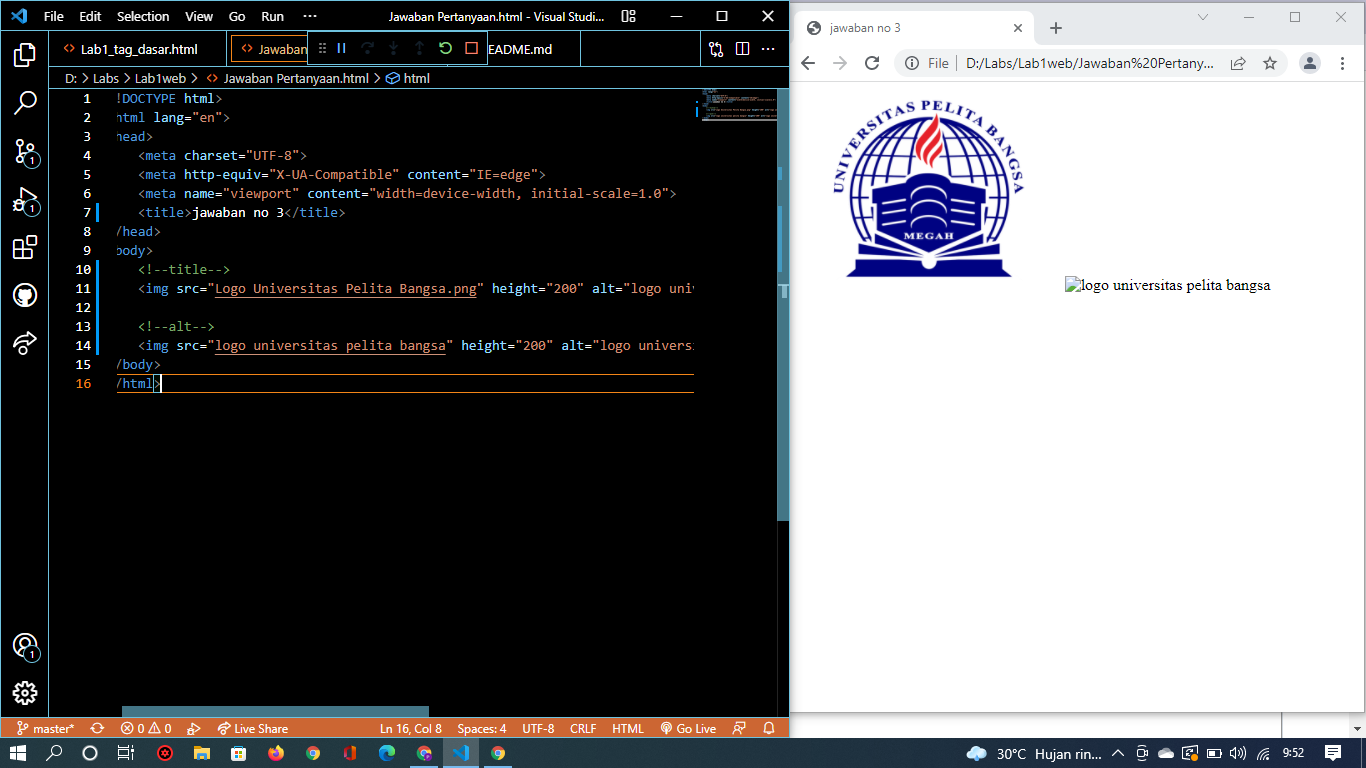
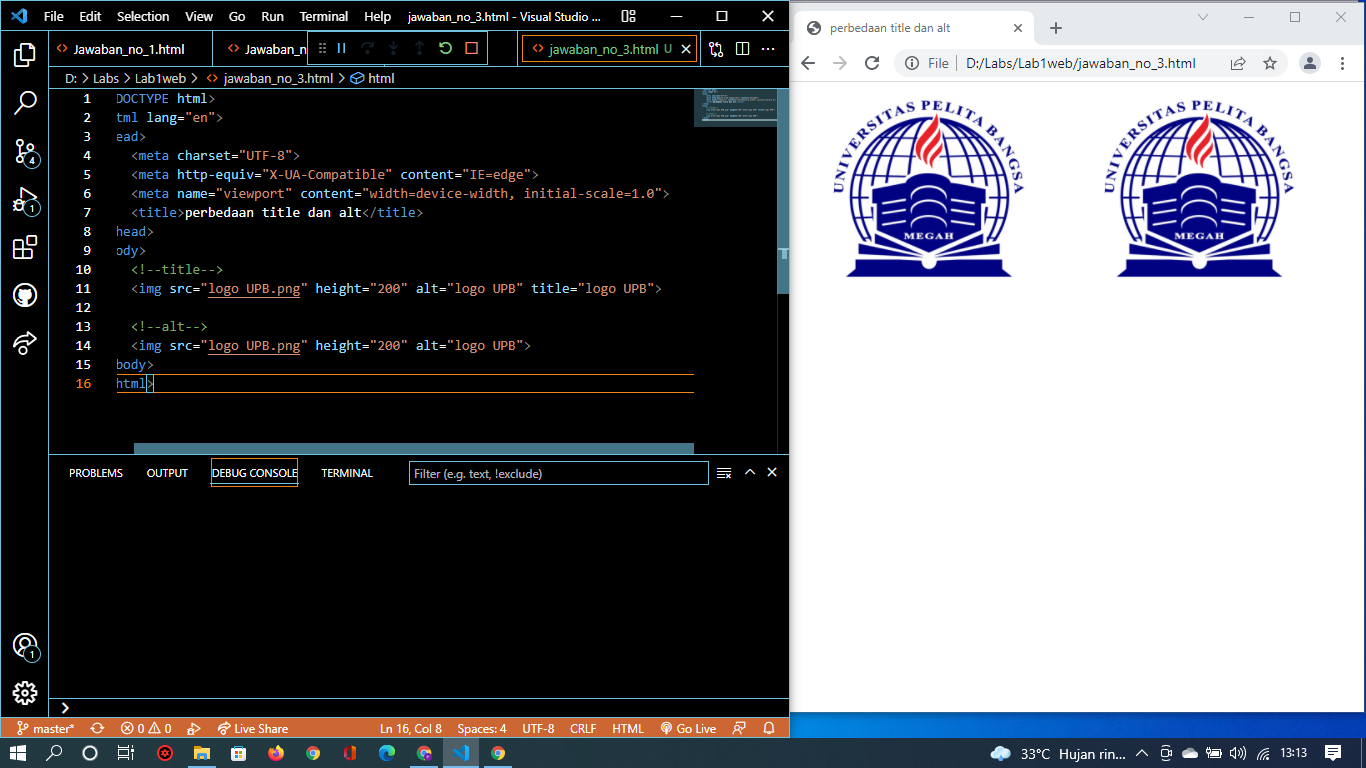
menambahkan foto

diff --git a/jawaban_no_3.html b/jawaban_no_3.html
@@ -1,0 +1,16 @@
+<!DOCTYPE html>
+<html lang="en">
+<head>
+    <meta charset="UTF-8">
+    <meta http-equiv="X-UA-Compatible" content="IE=edge">
+    <meta name="viewport" content="width=device-width, initial-scale=1.0">
+    <title>perbedaan title dan alt</title>
+</head>
+<body>
+    <!--title-->
+    <img src="logo UPB.png" height="200" alt="logo UPB" title="logo UPB">
+
+    <!--alt-->
+    <img src="logo UPB.png" height="200" alt="logo UPB">
+</body>
+</html>
